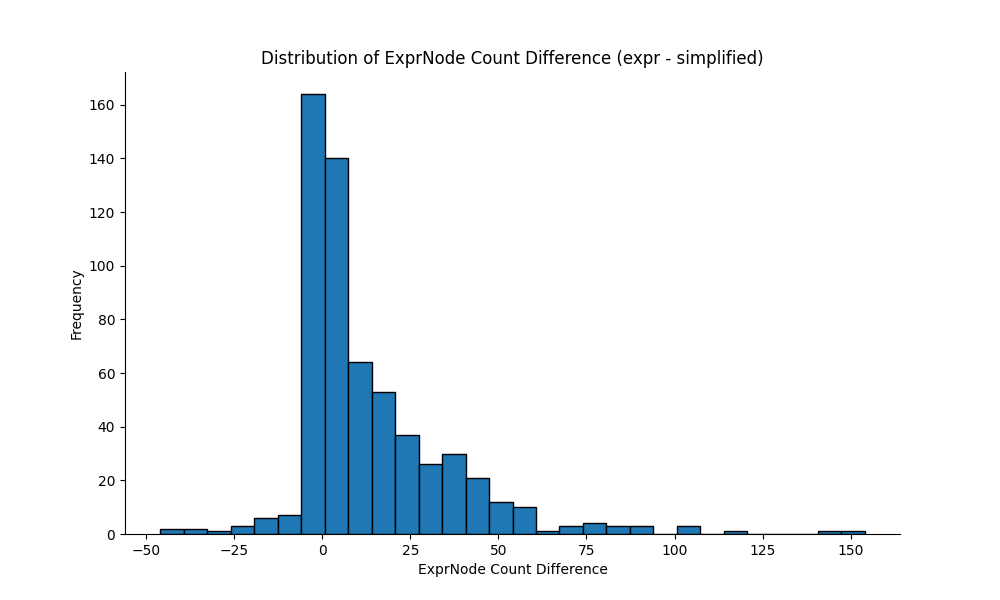
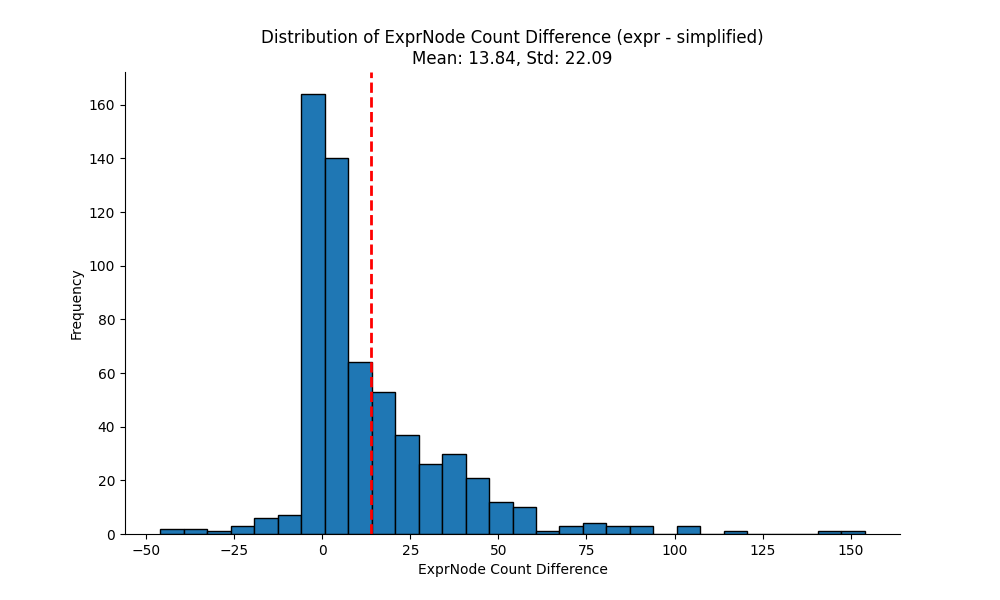
Indicating means and stds

Changed region(s): [[0.248, 0.03, 0.775, 0.12]]

diff --git a/src/data/dataset_analysis/dataset_analysis.py b/src/data/dataset_analysis/dataset_analysis.py
@@ -20,13 +20,16 @@ df[df.columns[:3]] = df[df.columns[:3]].map(sympify)
 output_dir = os.path.join(ROOT_DIR, "src/data/dataset_analysis")
 os.makedirs(output_dir, exist_ok=True)
 
-df["difficulty"].plot(kind="hist", bins=20, title="difficulty")
-plt.gca().spines[
-    [
-        "top",
-        "right",
-    ]
-].set_visible(False)
+difficulty_mean = df["difficulty"].mean()
+difficulty_std = df["difficulty"].std()
+
+plt.figure(figsize=(10, 6))
+df["difficulty"].hist(bins=20)
+plt.axvline(difficulty_mean, color='r', linestyle='dashed', linewidth=2)
+plt.title(f"Difficulty Distribution\nMean: {difficulty_mean:.2f}, Std: {difficulty_std:.2f}")
+plt.xlabel("Difficulty")
+plt.ylabel("Frequency")
+plt.gca().spines[["top", "right"]].set_visible(False)
 plt.savefig(os.path.join(output_dir, "difficulty.png"))
 plt.close()
 
@@ -81,7 +84,8 @@ print(f"Standard deviation of node count difference: {std_node_count_diff:.2f}")
 # Visualize the distribution of node count difference
 plt.figure(figsize=(10, 6))
 plt.hist(node_count_diff, bins=30, edgecolor='black')
-plt.title('Distribution of Node Count Difference (expr - simplified)')
+plt.axvline(avg_node_count_diff, color='r', linestyle='dashed', linewidth=2)
+plt.title(f'Distribution of Node Count Difference (expr - simplified)\nMean: {avg_node_count_diff:.2f}, Std: {std_node_count_diff:.2f}')
 plt.xlabel('Node Count Difference')
 plt.ylabel('Frequency')
 plt.gca().spines[['top', 'right']].set_visible(False)
@@ -119,7 +123,8 @@ print(f"Standard deviation of ExprNode count difference: {std_expr_node_count_di
 # Visualize the distribution of ExprNode count difference
 plt.figure(figsize=(10, 6))
 plt.hist(expr_node_count_diff, bins=30, edgecolor='black')
-plt.title('Distribution of ExprNode Count Difference (expr - simplified)')
+plt.axvline(avg_expr_node_count_diff, color='r', linestyle='dashed', linewidth=2)
+plt.title(f'Distribution of ExprNode Count Difference (expr - simplified)\nMean: {avg_expr_node_count_diff:.2f}, Std: {std_expr_node_count_diff:.2f}')
 plt.xlabel('ExprNode Count Difference')
 plt.ylabel('Frequency')
 plt.gca().spines[['top', 'right']].set_visible(False)
